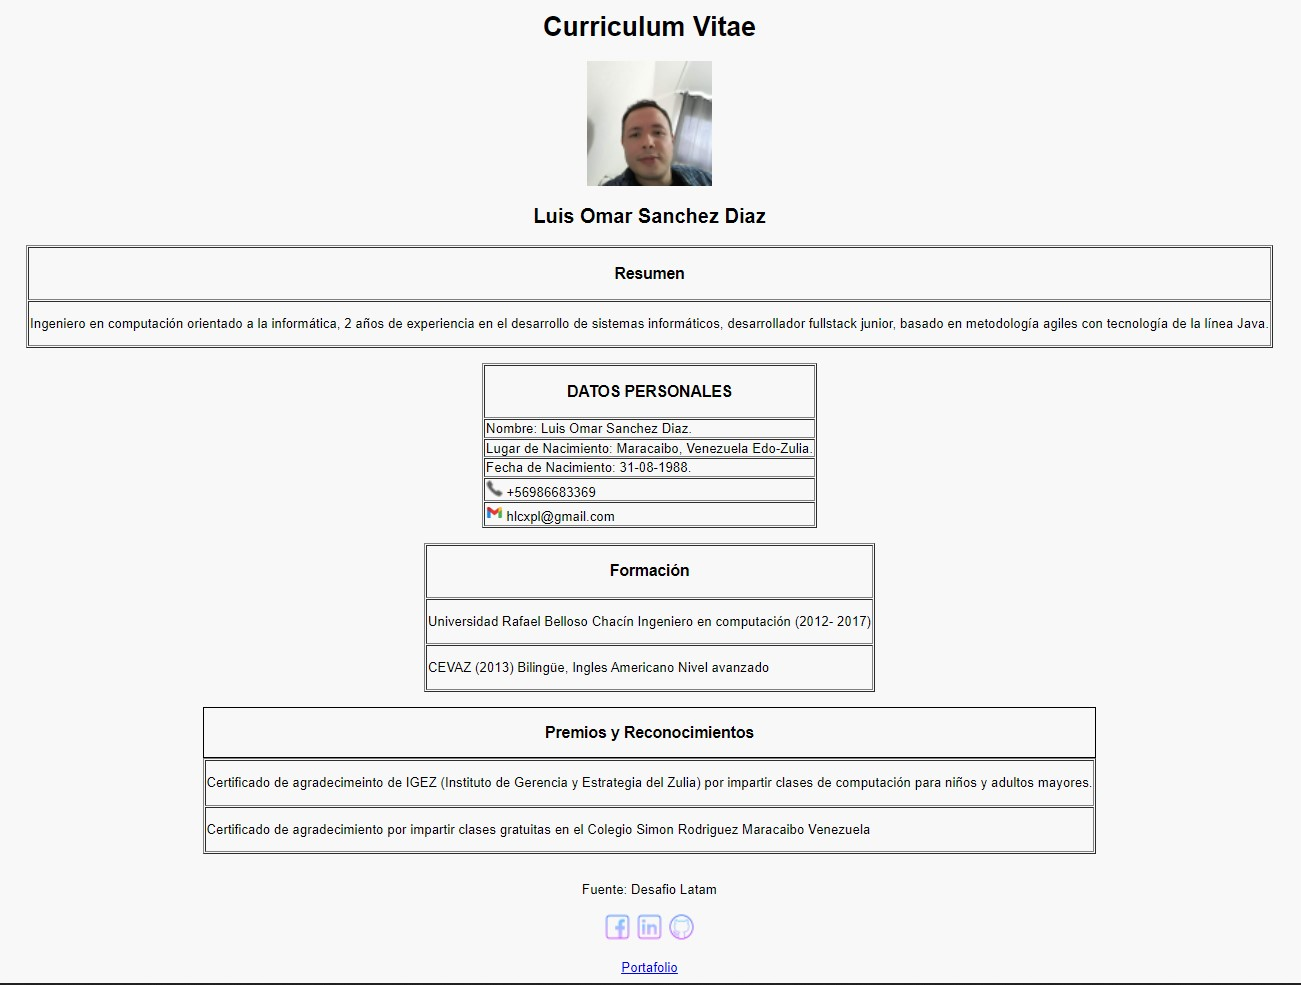
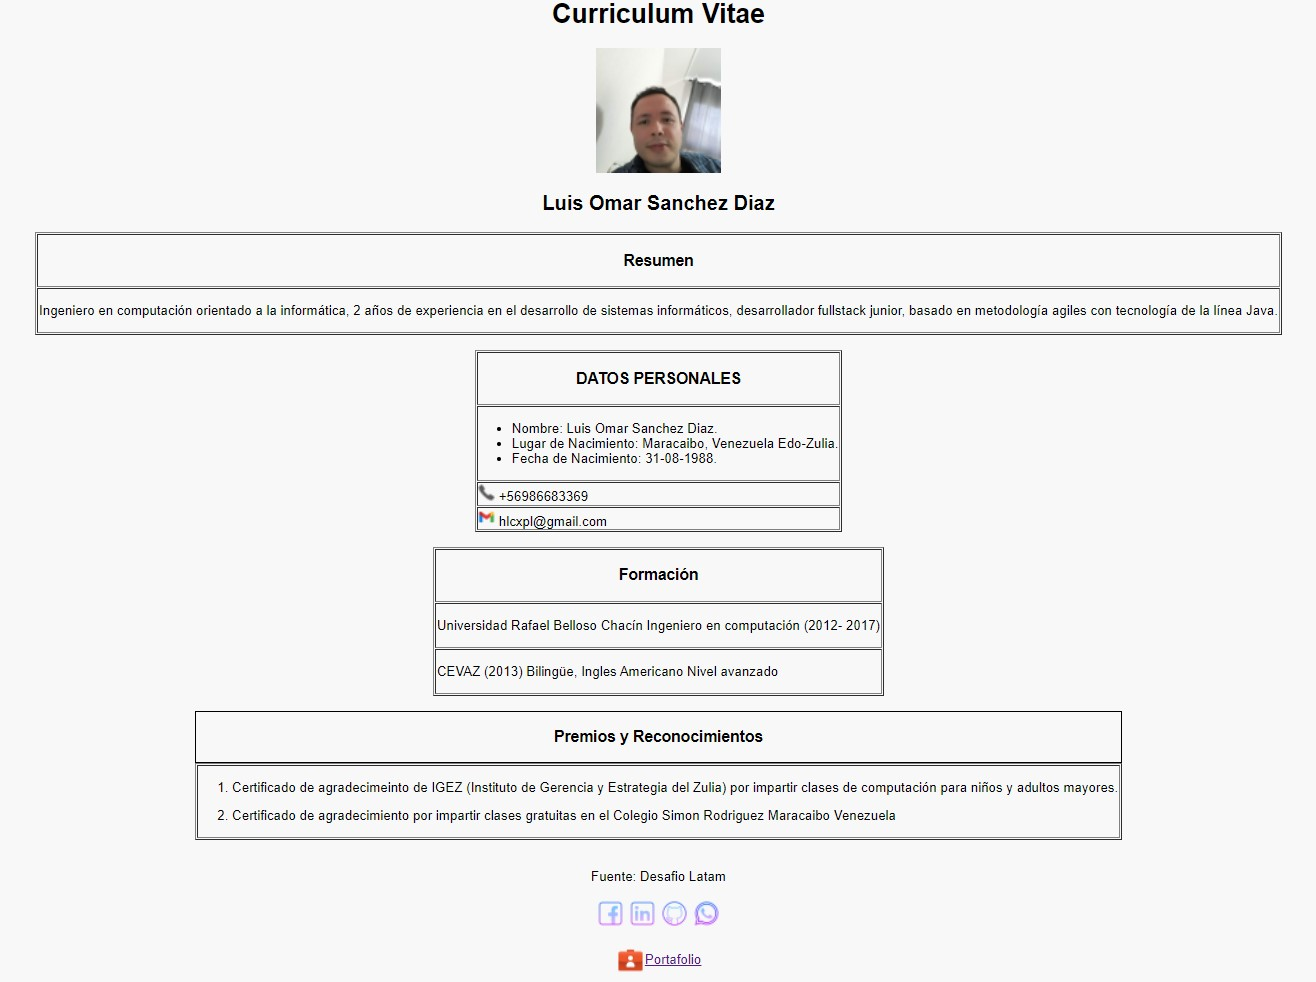
first commit

Changed region(s): [[0.0, 0.0, 0.9839, 1.0], [0.1537, 0.7026, 0.1845, 0.7332]]

diff --git a/index.html b/index.html
@@ -5,36 +5,36 @@
   <meta charset="UTF-8">
   <meta http-equiv="X-UA-Compatible" content="IE=edge">
   <meta name="viewport" content="width=device-width, initial-scale=1.0">
-  <!--Fav-Icon-->
+<!--Fav-Icon-->
   <link rel="shortcut icon" href="./assest/img/favicon.ico" type="image/icon">
   <meta name="description" content="JavaScript FullStack, fullstack, JavaScript, desarrollador, developer,">
   <title>Curriculum Vitae</title>
 </head>
 
-<body>
-
-  <!--titulo-->
+<!--titulo-->
 
   <header>
     <h1 align="center">Curriculum Vitae</h1>
 
-    <!--foto de perfil-->
+  <!--foto de perfil-->
     <div align="center">
-      <img src="./assest/img/Profile.jpg" alt="" width="150" srcset="">
+      <img src="./assest/img/Profile.jpg" alt="fotoPerfil" width="150" srcset="">
     </div>
   </header>
 
+
+  
+<body>
   <!--Nombre-->
   <section>
     <table border="1" align="center">
 
       <h2 align="center">Luis Omar Sanchez Diaz</h2>
 
+
+  <!--Resumen-->
       <tr>
         <td>
-
-
-          <!--Resumen-->
           <h3 align="center">Resumen</h3>
         </td>
       </tr>
@@ -49,7 +49,9 @@
     </table>
   </section>
   <br>
+
   <!--Tabla de Datos presonales-->
+
   <section>
     <table border="1" align="center">
       <tr>
@@ -59,31 +61,33 @@
       </tr>
       <tr>
         <td>
+        <ul>
+          <li>
           Nombre: Luis Omar Sanchez Diaz.
-        </td>
-      <tr>
-        <td>
+          </li>
+          <li>
           Lugar de Nacimiento: Maracaibo, Venezuela Edo-Zulia.
-        </td>
-      </tr>
-      <tr>
-        <td>
+          </li>
+          <li>
           Fecha de Nacimiento: 31-08-1988.
+          </li>
+        </ul>
+      </td>
+      </tr>
+      <tr>
+        <td>
+          <img src="./assest/img/phone50px.png" alt="Telefono" width="20" srcset=""> +56986683369
         </td>
       </tr>
       <tr>
         <td>
-          <img src="./assest/img/phone50px.png" alt="" width="20" srcset=""> +56986683369
-        </td>
-      </tr>
-      <tr>
-        <td>
-          <img src="./assest/img/gmail_48px.png" width="20" alt=""> hlcxpl@gmail.com
+          <img src="./assest/img/gmail_48px.png" width="20" alt="Gmail"> hlcxpl@gmail.com
         </td>
       </tr>
     </table>
   </section>
   <br>
+
   <!--Tabla de Datos de Formación-->
   <section>
     <table border="1" align="center">
@@ -115,6 +119,7 @@
   </section>
   <br>
   <!--Tabla de Premios y reconocientos-->
+
   <section>
     <table border="1" align="center">
 
@@ -123,45 +128,49 @@
       </caption>
       <tr>
         <td>
+          <ol>
+          <li>
           <p>
             Certificado de agradecimeinto de IGEZ (Instituto de Gerencia y Estrategia del Zulia) por
             impartir clases de computación
             para niños y adultos mayores.
           </p>
-        </td>
-      </tr>
-      <tr>
-        <td>
+          </li>
+          <li>
           <p>
             Certificado de agradecimiento por impartir clases gratuitas en el Colegio Simon Rodriguez
             Maracaibo Venezuela
+          </li>
           </p>
+        </ol>
         </td>
       </tr>
     </table>
   </section>
   <br>
 </body>
+
 <!--Footer-->
 <footer>
   <p align="center">Fuente: Desafio Latam</p>
   <table align="center">
     <tr>
       <td>
-        <a href="https://www.facebook.com/luisthepower" target="_blank"><img src="./assest/img/facebook_96px.png" alt=""
+        <a href="https://www.facebook.com/luisthepower" target="_blank"><img src="./assest/img/facebook_96px.png" alt="facebook"
             width="35"></a>
       </td>
       <td>
         <a href="https://www.linkedin.com/in/luis-omar-sanchez-diaz-6a229353/" target="_blank"><img
-            src="./assest/img/linkedin_96px.png" alt="" width="35"></a>
+            src="./assest/img/linkedin_96px.png" alt="linkedin" width="35"></a>
       </td>
       <td>
-        <a href="https://github.com/hlcxpl" target="_blank"><img src="./assest/img/github_96px.png" alt=""
-            width="35"></a>
+        <a href="https://github.com/hlcxpl" target="_blank"><img src="./assest/img/github_96px.png" alt="github" width="35"></a>
+      </td>
+      <td>
+        <a href="https://wa.me/message/2KR4XD3NOCFBN1" target="_blank"><img src="./assest/img/whatsapp_96px.png" alt="whatsapp" width="35"></a>
       </td>
     </tr>
   </table>
- <p align="center"><a href="./portafolio.html" ><u>Portafolio</u></a></p>
+ <p align="center"><a href="./portafolio.html" ><img align="center" src="./assest/img/portfolio_96px.png" alt="portafolio" width="35" ><u>Portafolio</u></a></p>
 </footer>
-
 </html>
